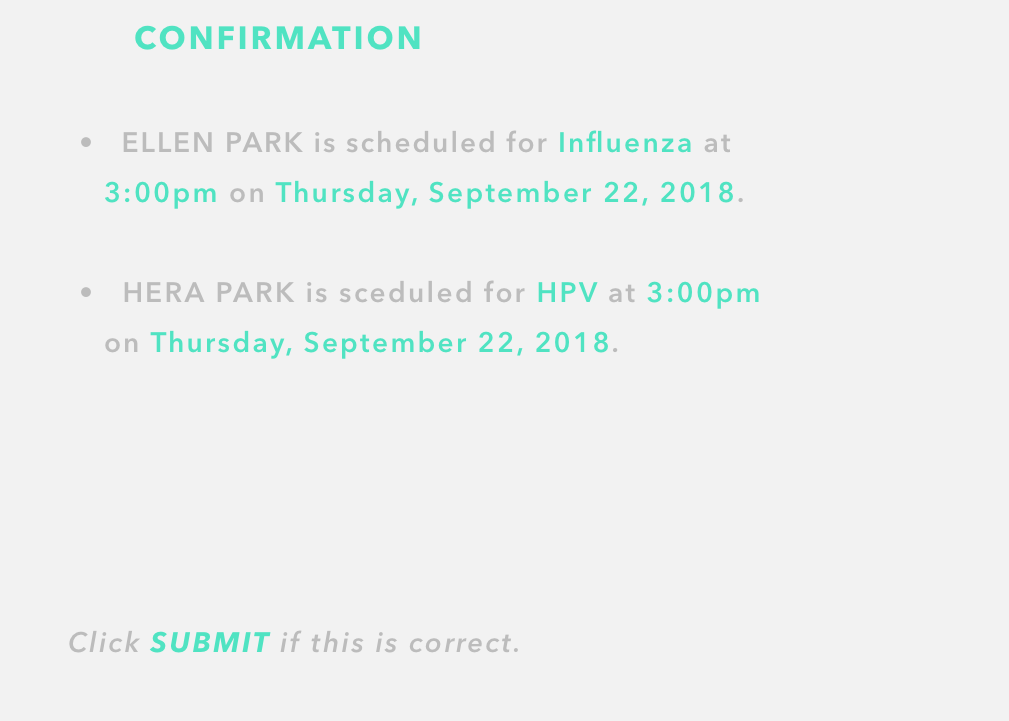
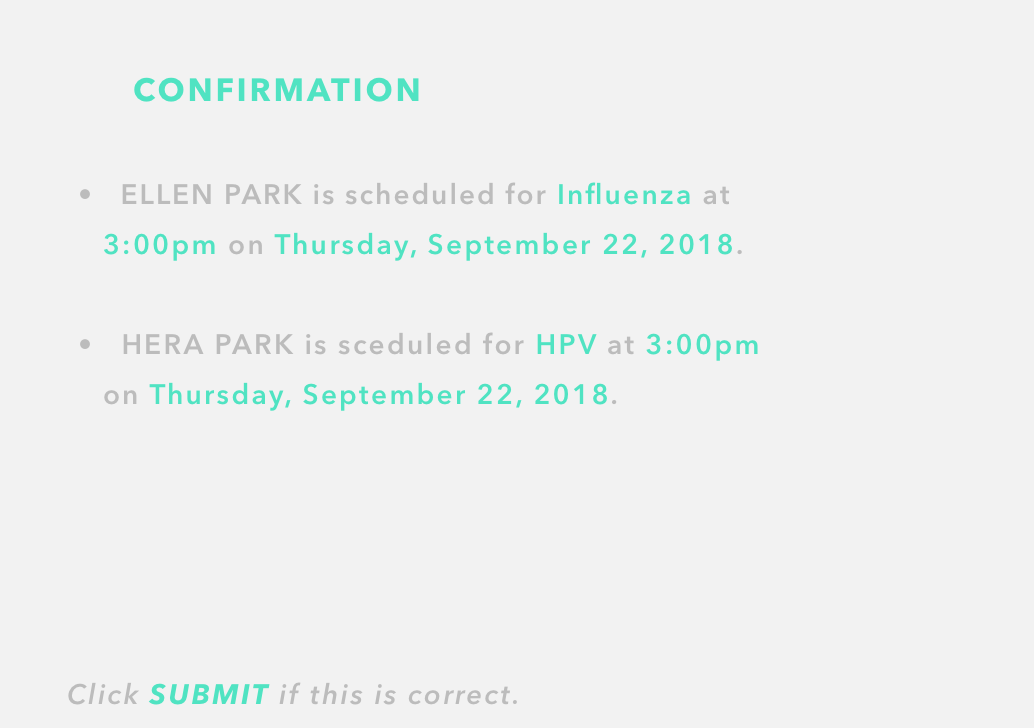
added formation

diff --git a/twobirds/src/Scheduler.js b/twobirds/src/Scheduler.js
@@ -59,7 +59,7 @@ class Scheduler extends Component {
            }}
           /> 
          </div>
-        <img  src={calendar} style={{width:"52%", marginLeft: "27%", marginTop: "-55%"}} alt="twoBirds"/>
+        <img  src={calendar} style={{width:"52%", marginLeft: "27%", marginTop: "-41%"}} alt="twoBirds"/>
         <StickyFooter
           bottomThreshold={50}
           normalStyles={{
@@ -68,7 +68,7 @@ class Scheduler extends Component {
           }}
           stickyStyles={{
           backgroundColor: "rgba(255,255,255,.8)",
-          padding: "2rem"
+          padding: "1rem"
           }}
         >
         <Form onSubmit={this.onSubmitBack}>
